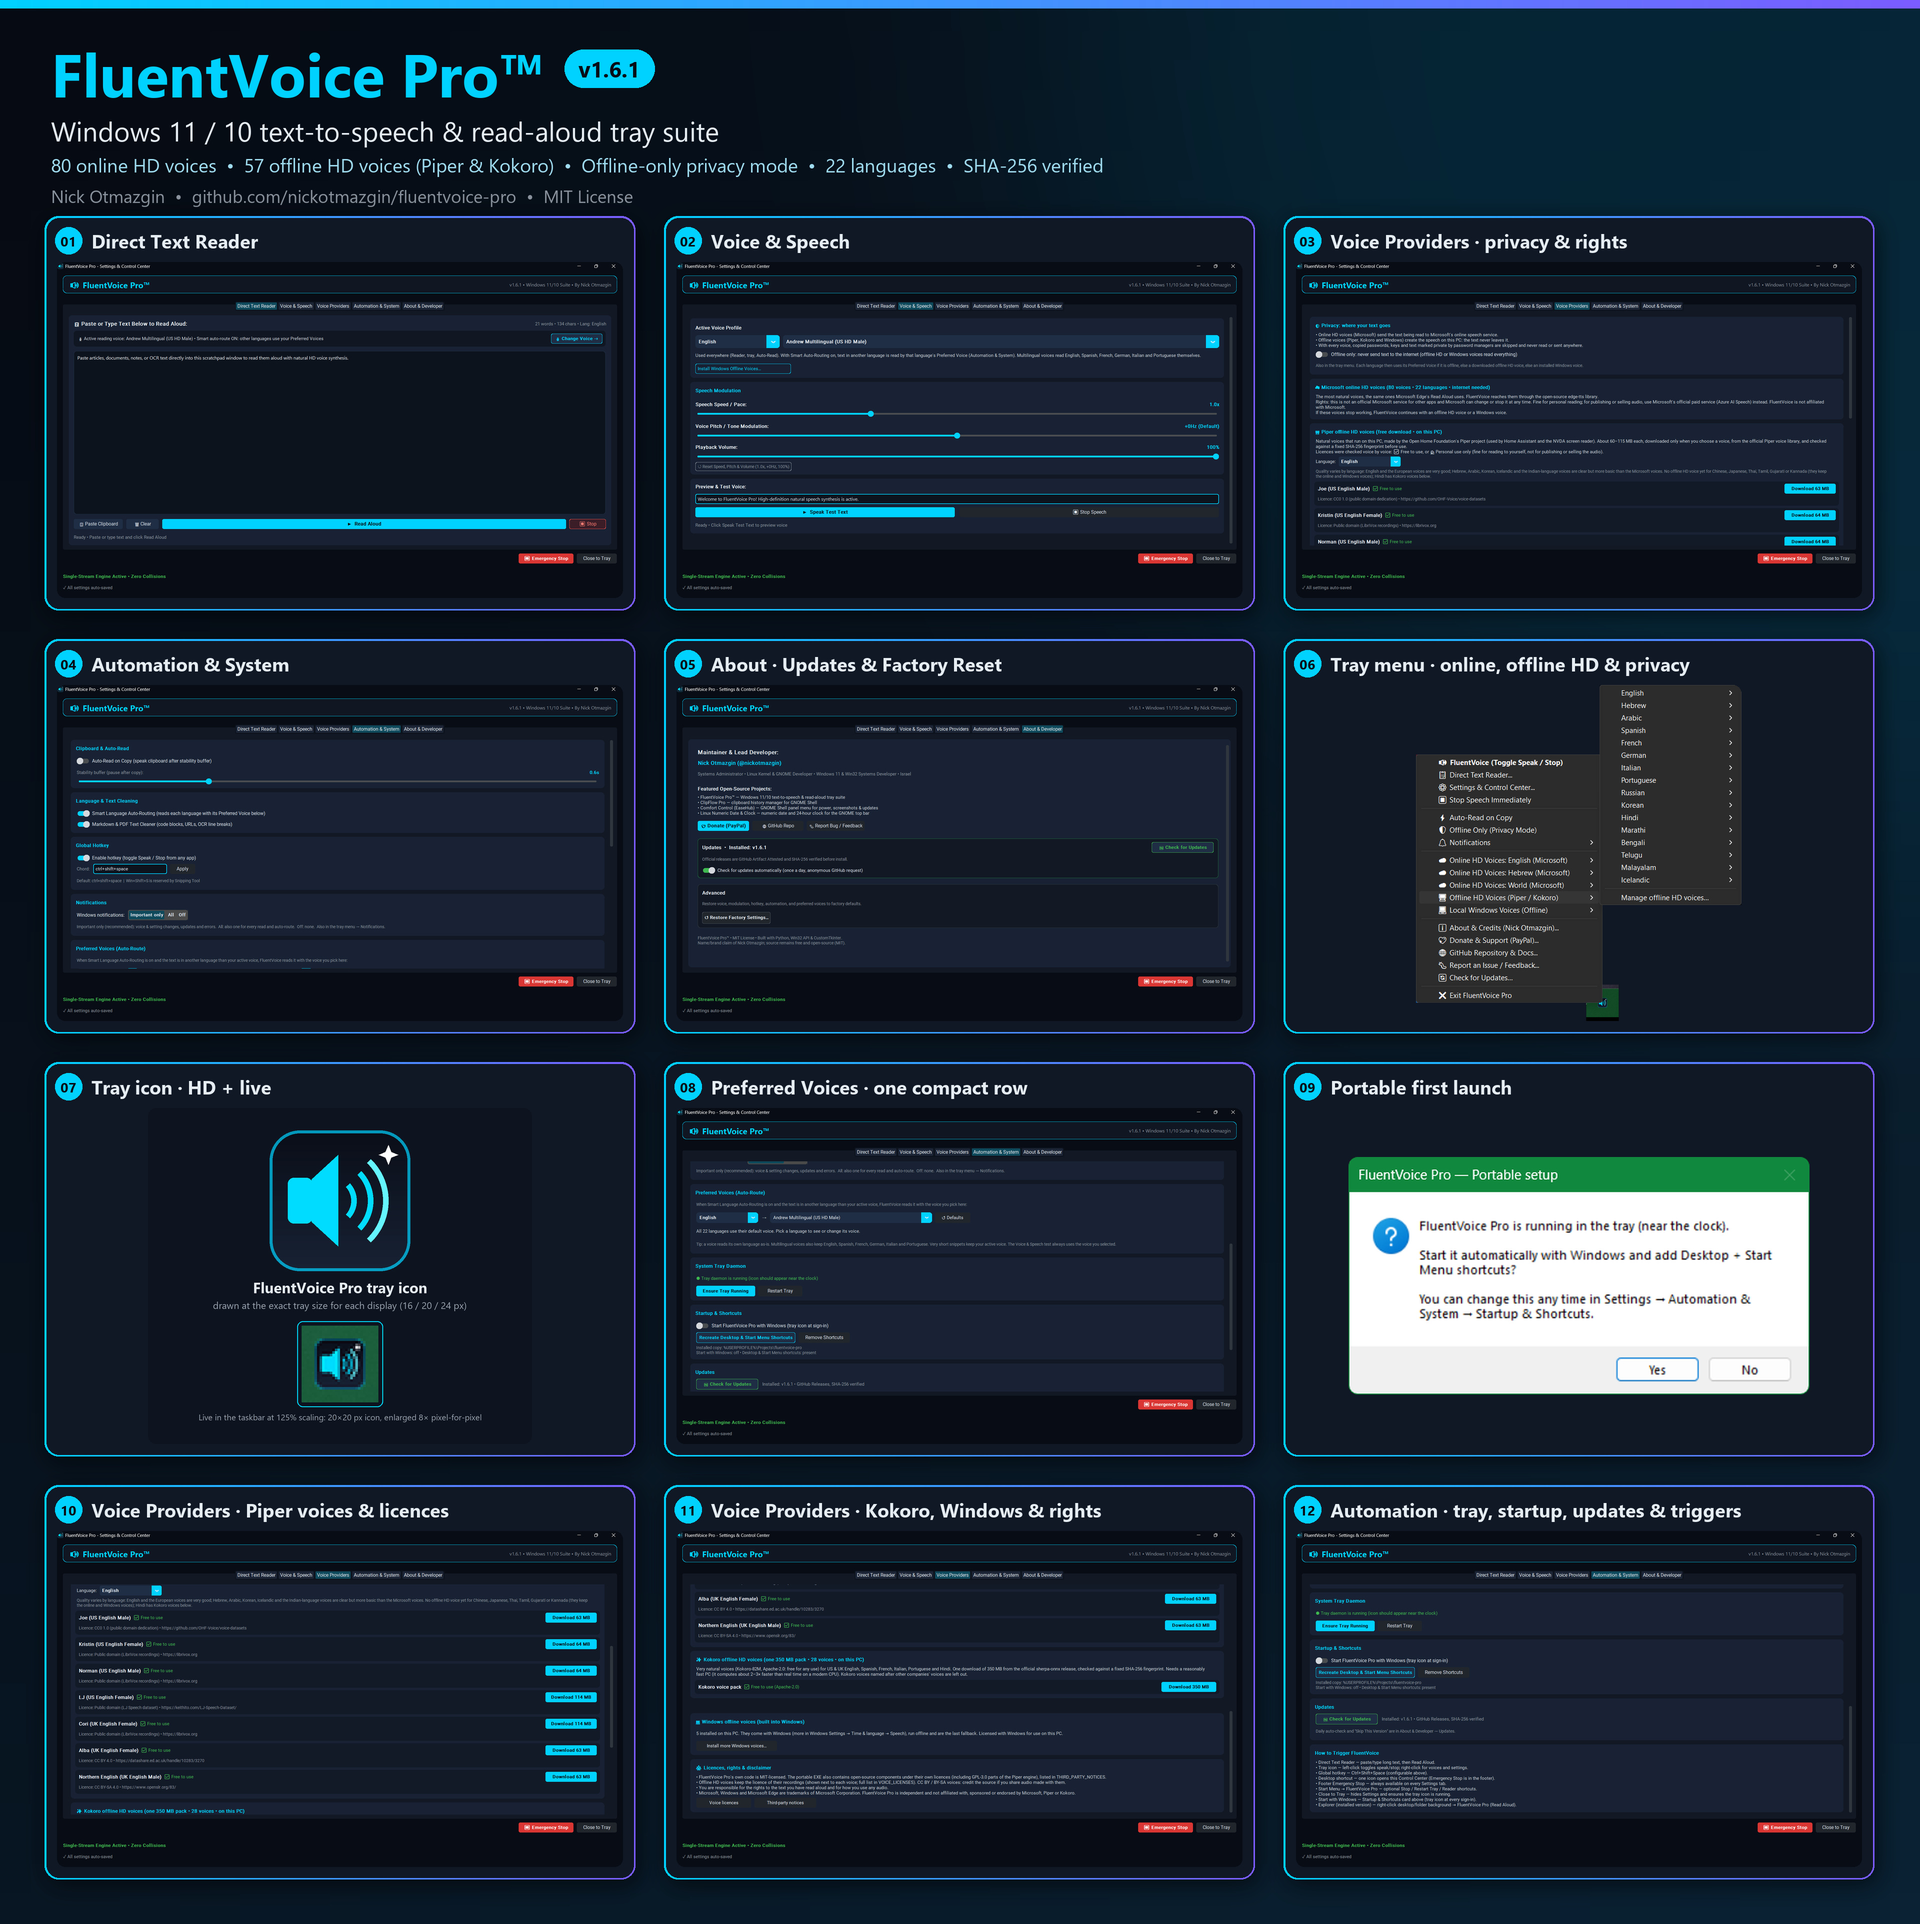
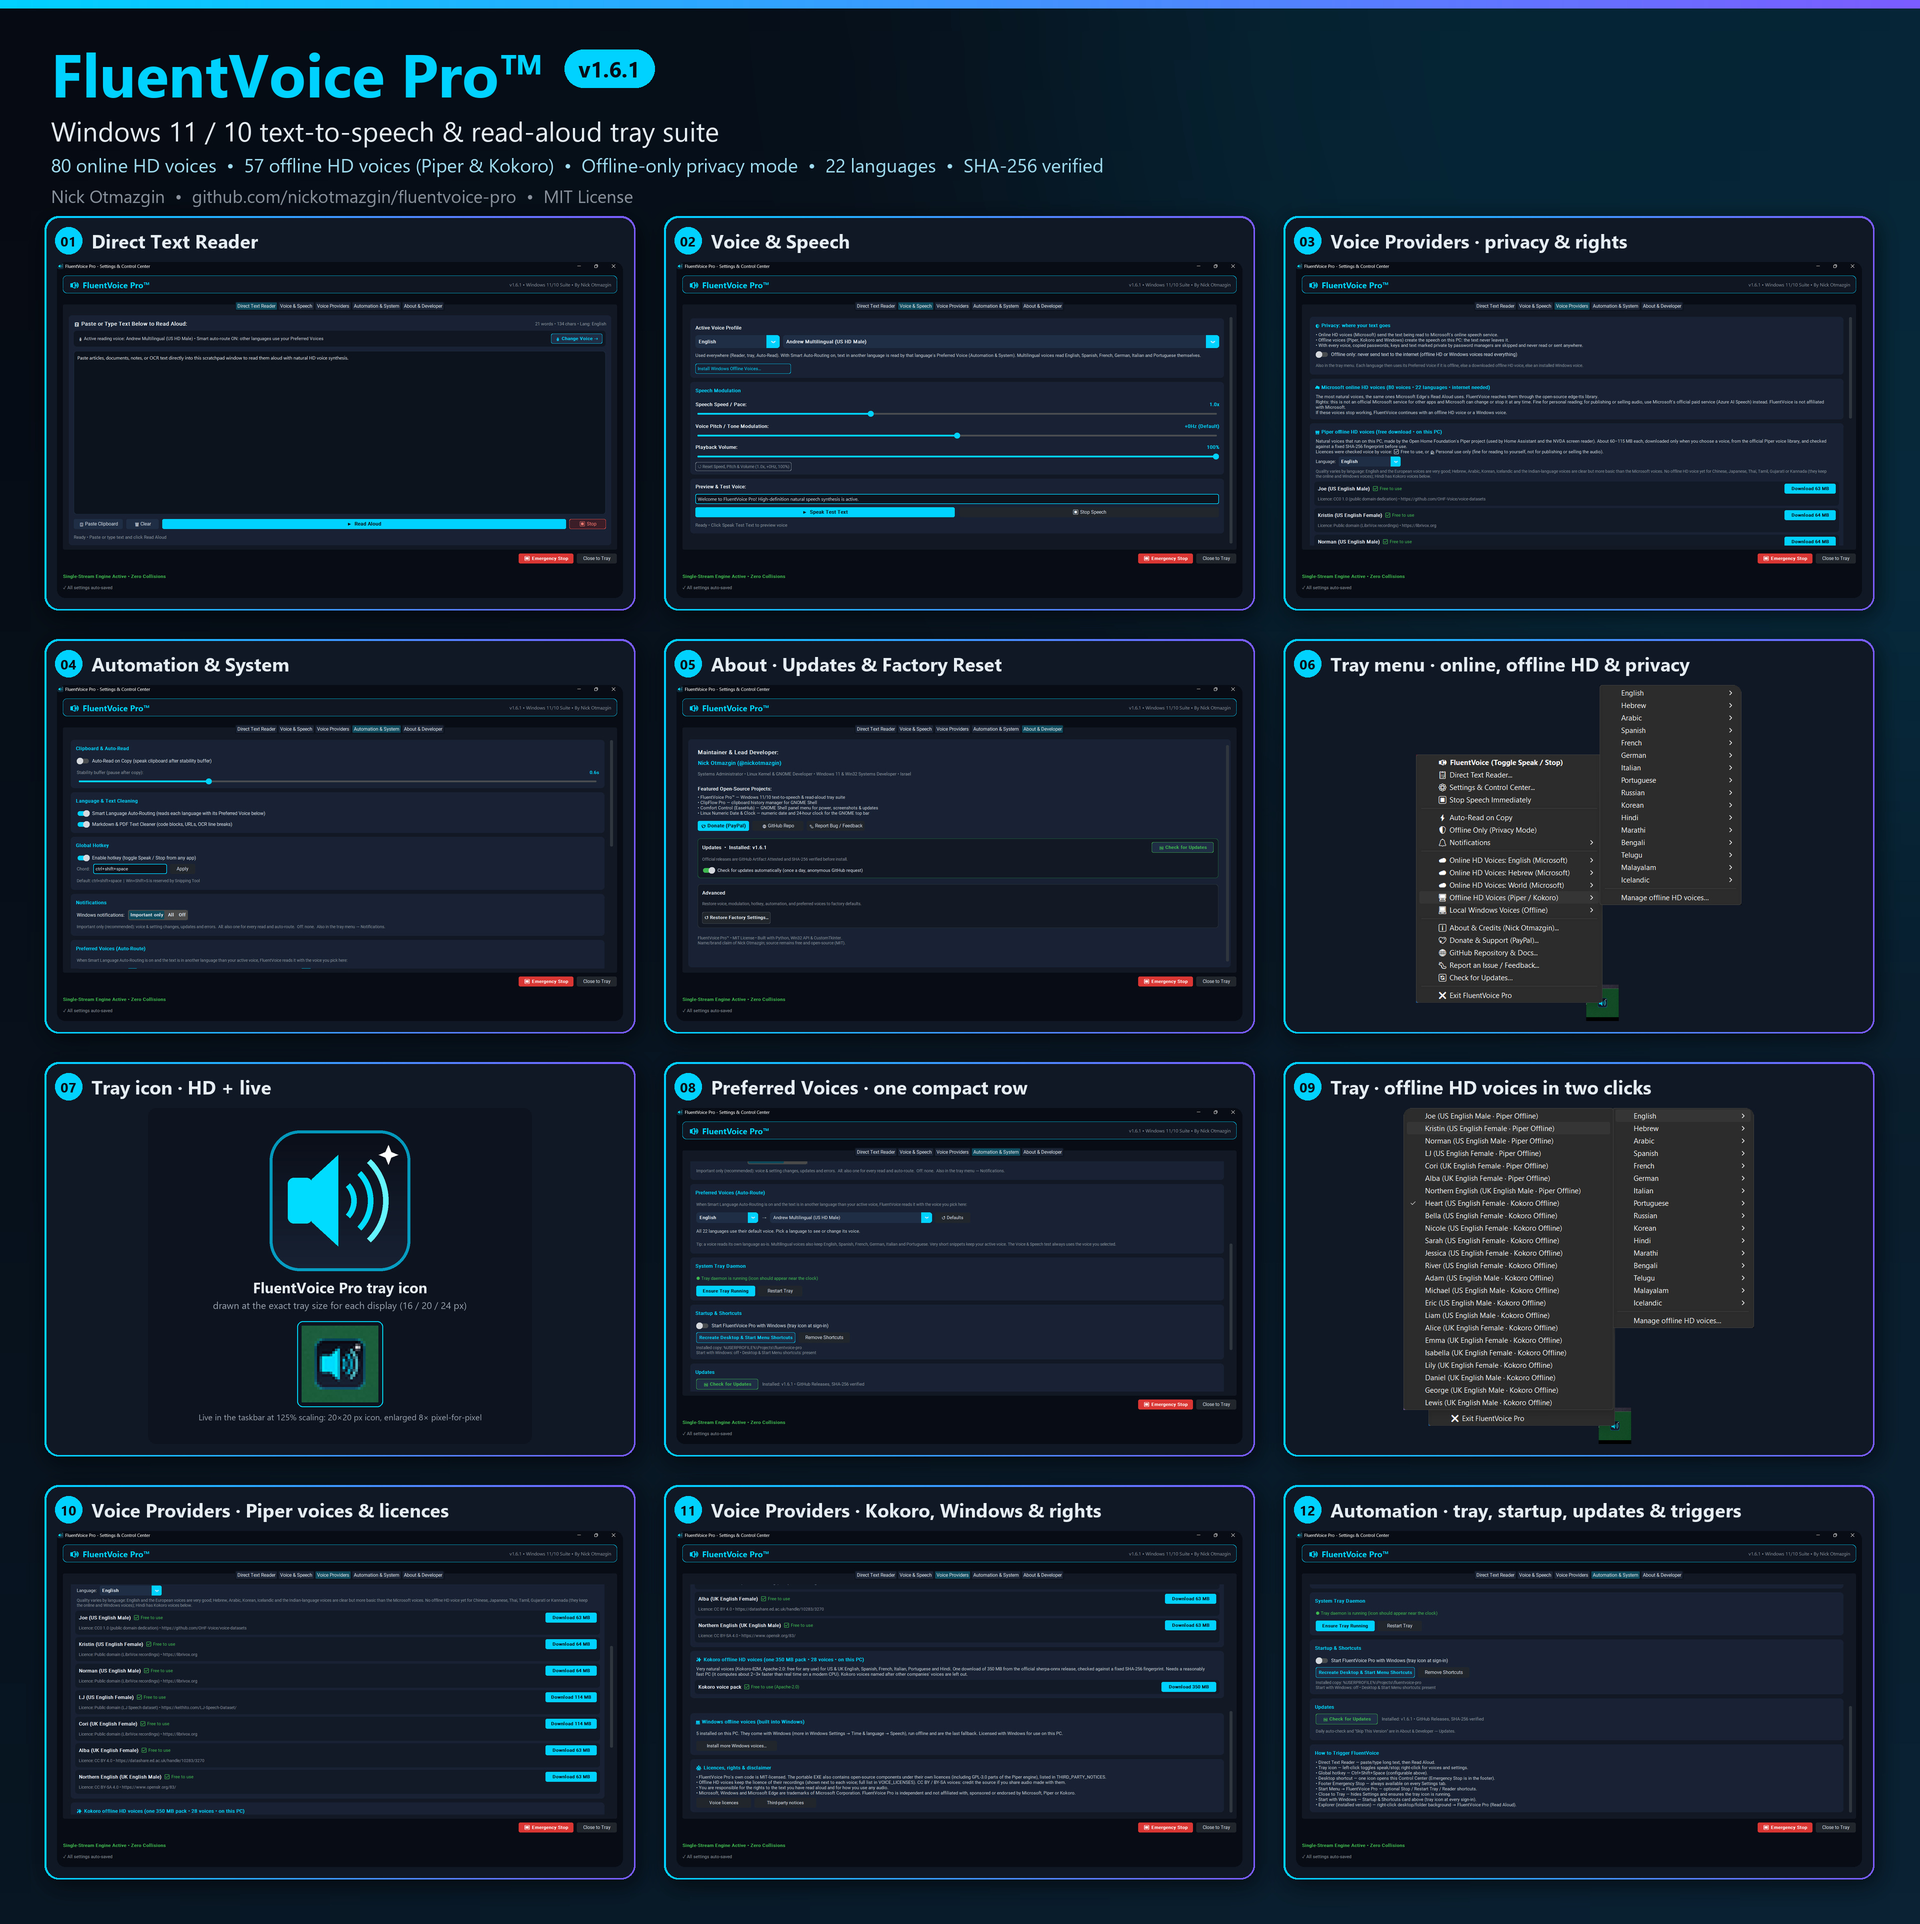
docs: gallery tile 09 = tray offline HD voices (#54)

Changed region(s): [[0.6875, 0.5613, 0.9688, 0.7484]]

diff --git a/scripts/build_collage.py b/scripts/build_collage.py
@@ -32,7 +32,7 @@ PANELS = [  # (file, number, label) in reading order
     ("06-tray-menu.png", "06", "Tray menu · online, offline HD & privacy"),
     ("07-tray-icon-closeup.png", "07", "Tray icon · HD + live"),
     ("08-settings-automation-preferred.png", "08", "Preferred Voices · one compact row"),
-    ("09-portable-first-launch.png", "09", "Portable first launch"),
+    ("09-tray-offline-voices.png", "09", "Tray · offline HD voices in two clicks"),
     ("10-settings-voice-providers-mid.png", "10", "Voice Providers · Piper voices & licences"),
     ("11-settings-voice-providers-bottom.png", "11", "Voice Providers · Kokoro, Windows & rights"),
     ("12-settings-automation-bottom.png", "12", "Automation · tray, startup, updates & triggers"),

diff --git a/README.md b/README.md
@@ -76,8 +76,8 @@ https://github.com/user-attachments/assets/69232ed1-b2f7-4aae-80f1-908521427841
       <b>08</b> — Preferred Voices · one compact row
     </td>
     <td align="center">
-      <a href="screenshots/v1.6.1/09-portable-first-launch.png"><img src="screenshots/v1.6.1/09-portable-first-launch.png" width="260" alt="Portable first launch prompt"></a><br>
-      <b>09</b> — Portable first launch
+      <a href="screenshots/v1.6.1/09-tray-offline-voices.png"><img src="screenshots/v1.6.1/09-tray-offline-voices.png" width="260" alt="Tray: downloaded offline HD voices by language"></a><br>
+      <b>09</b> — Tray · offline HD voices (Piper &amp; Kokoro) in two clicks
     </td>
   </tr>
   <tr>
@@ -92,12 +92,6 @@ https://github.com/user-attachments/assets/69232ed1-b2f7-4aae-80f1-908521427841
     <td align="center">
       <a href="screenshots/v1.6.1/12-settings-automation-bottom.png"><img src="screenshots/v1.6.1/12-settings-automation-bottom.png" width="260" alt="Automation &amp; System: tray, startup, updates and how to trigger FluentVoice"></a><br>
       <b>12</b> — Automation · tray, startup, updates &amp; triggers
-    </td>
-  </tr>
-  <tr>
-    <td align="center" colspan="3">
-      <a href="screenshots/v1.6.1/13-tray-offline-voices.png"><img src="screenshots/v1.6.1/13-tray-offline-voices.png" width="360" alt="Tray: downloaded offline HD voices by language"></a><br>
-      <b>13</b> — Tray · downloaded offline HD voices (Piper &amp; Kokoro), pick one in two clicks
     </td>
   </tr>
 </table>

diff --git a/docs/SCREENSHOTS.md b/docs/SCREENSHOTS.md
@@ -17,11 +17,10 @@ HD captures for the README, the GitHub social preview, and social posts.
 | `screenshots/v1.6.1/06-tray-menu.png` | 06 Tray right-click menu (Offline HD Voices submenu open, languages of the downloaded voices) |
 | `screenshots/v1.6.1/07-tray-icon-closeup.png` | 07 Tray icon: HD (drawn by the tray code) + live 20 px capture from the taskbar |
 | `screenshots/v1.6.1/08-settings-automation-preferred.png` | 08 Automation scrolled to Preferred Voices (one Language ▸ Voice row), tray, startup, updates |
-| `screenshots/v1.6.1/09-portable-first-launch.png` | 09 Portable EXE first-launch prompt (Start with Windows?) |
 | `screenshots/v1.6.1/10-settings-voice-providers-mid.png` | 10 Voice Providers, middle: Piper voices, each with its licence |
 | `screenshots/v1.6.1/11-settings-voice-providers-bottom.png` | 11 Voice Providers, bottom: Kokoro pack, Windows voices, licences & rights |
 | `screenshots/v1.6.1/12-settings-automation-bottom.png` | 12 Automation & System, bottom: tray, startup & shortcuts, updates, how to trigger FluentVoice |
-| `screenshots/v1.6.1/13-tray-offline-voices.png` | 13 Tray → Offline HD Voices → English: the downloaded Piper / Kokoro voices (README only, not in the collage) |
+| `screenshots/v1.6.1/09-tray-offline-voices.png` | 09 Tray → Offline HD Voices → English: the downloaded Piper / Kokoro voices (README only, not in the collage) |
 
 ## Recapture + rebuild
 
